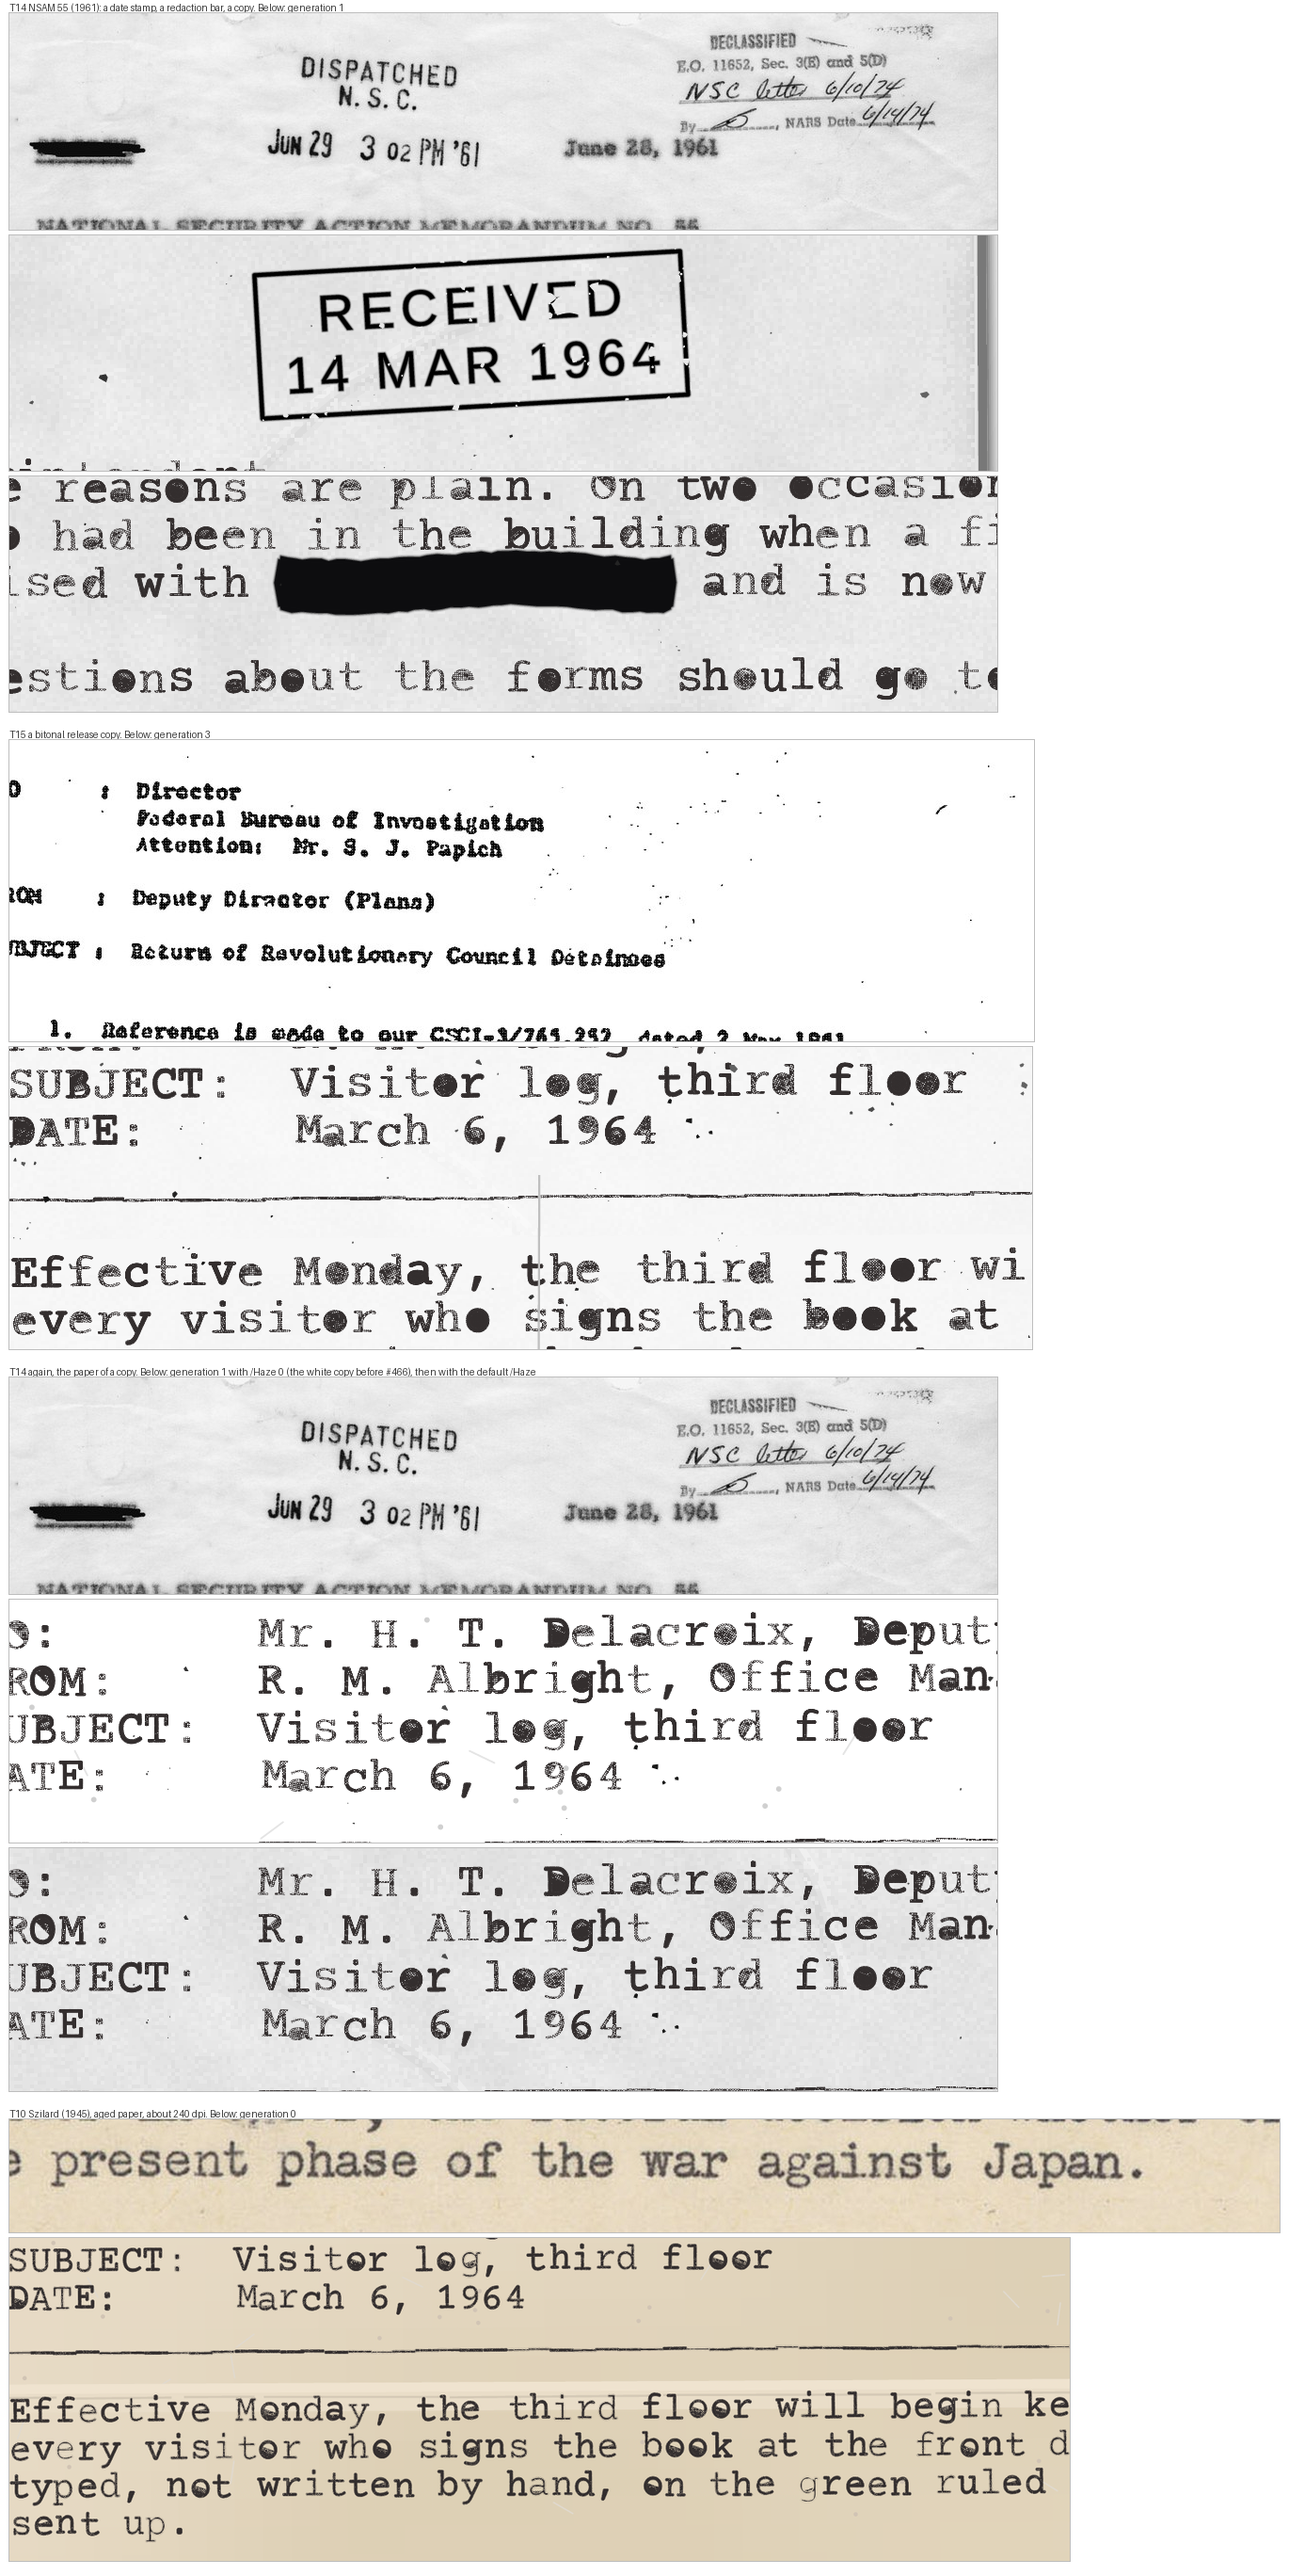
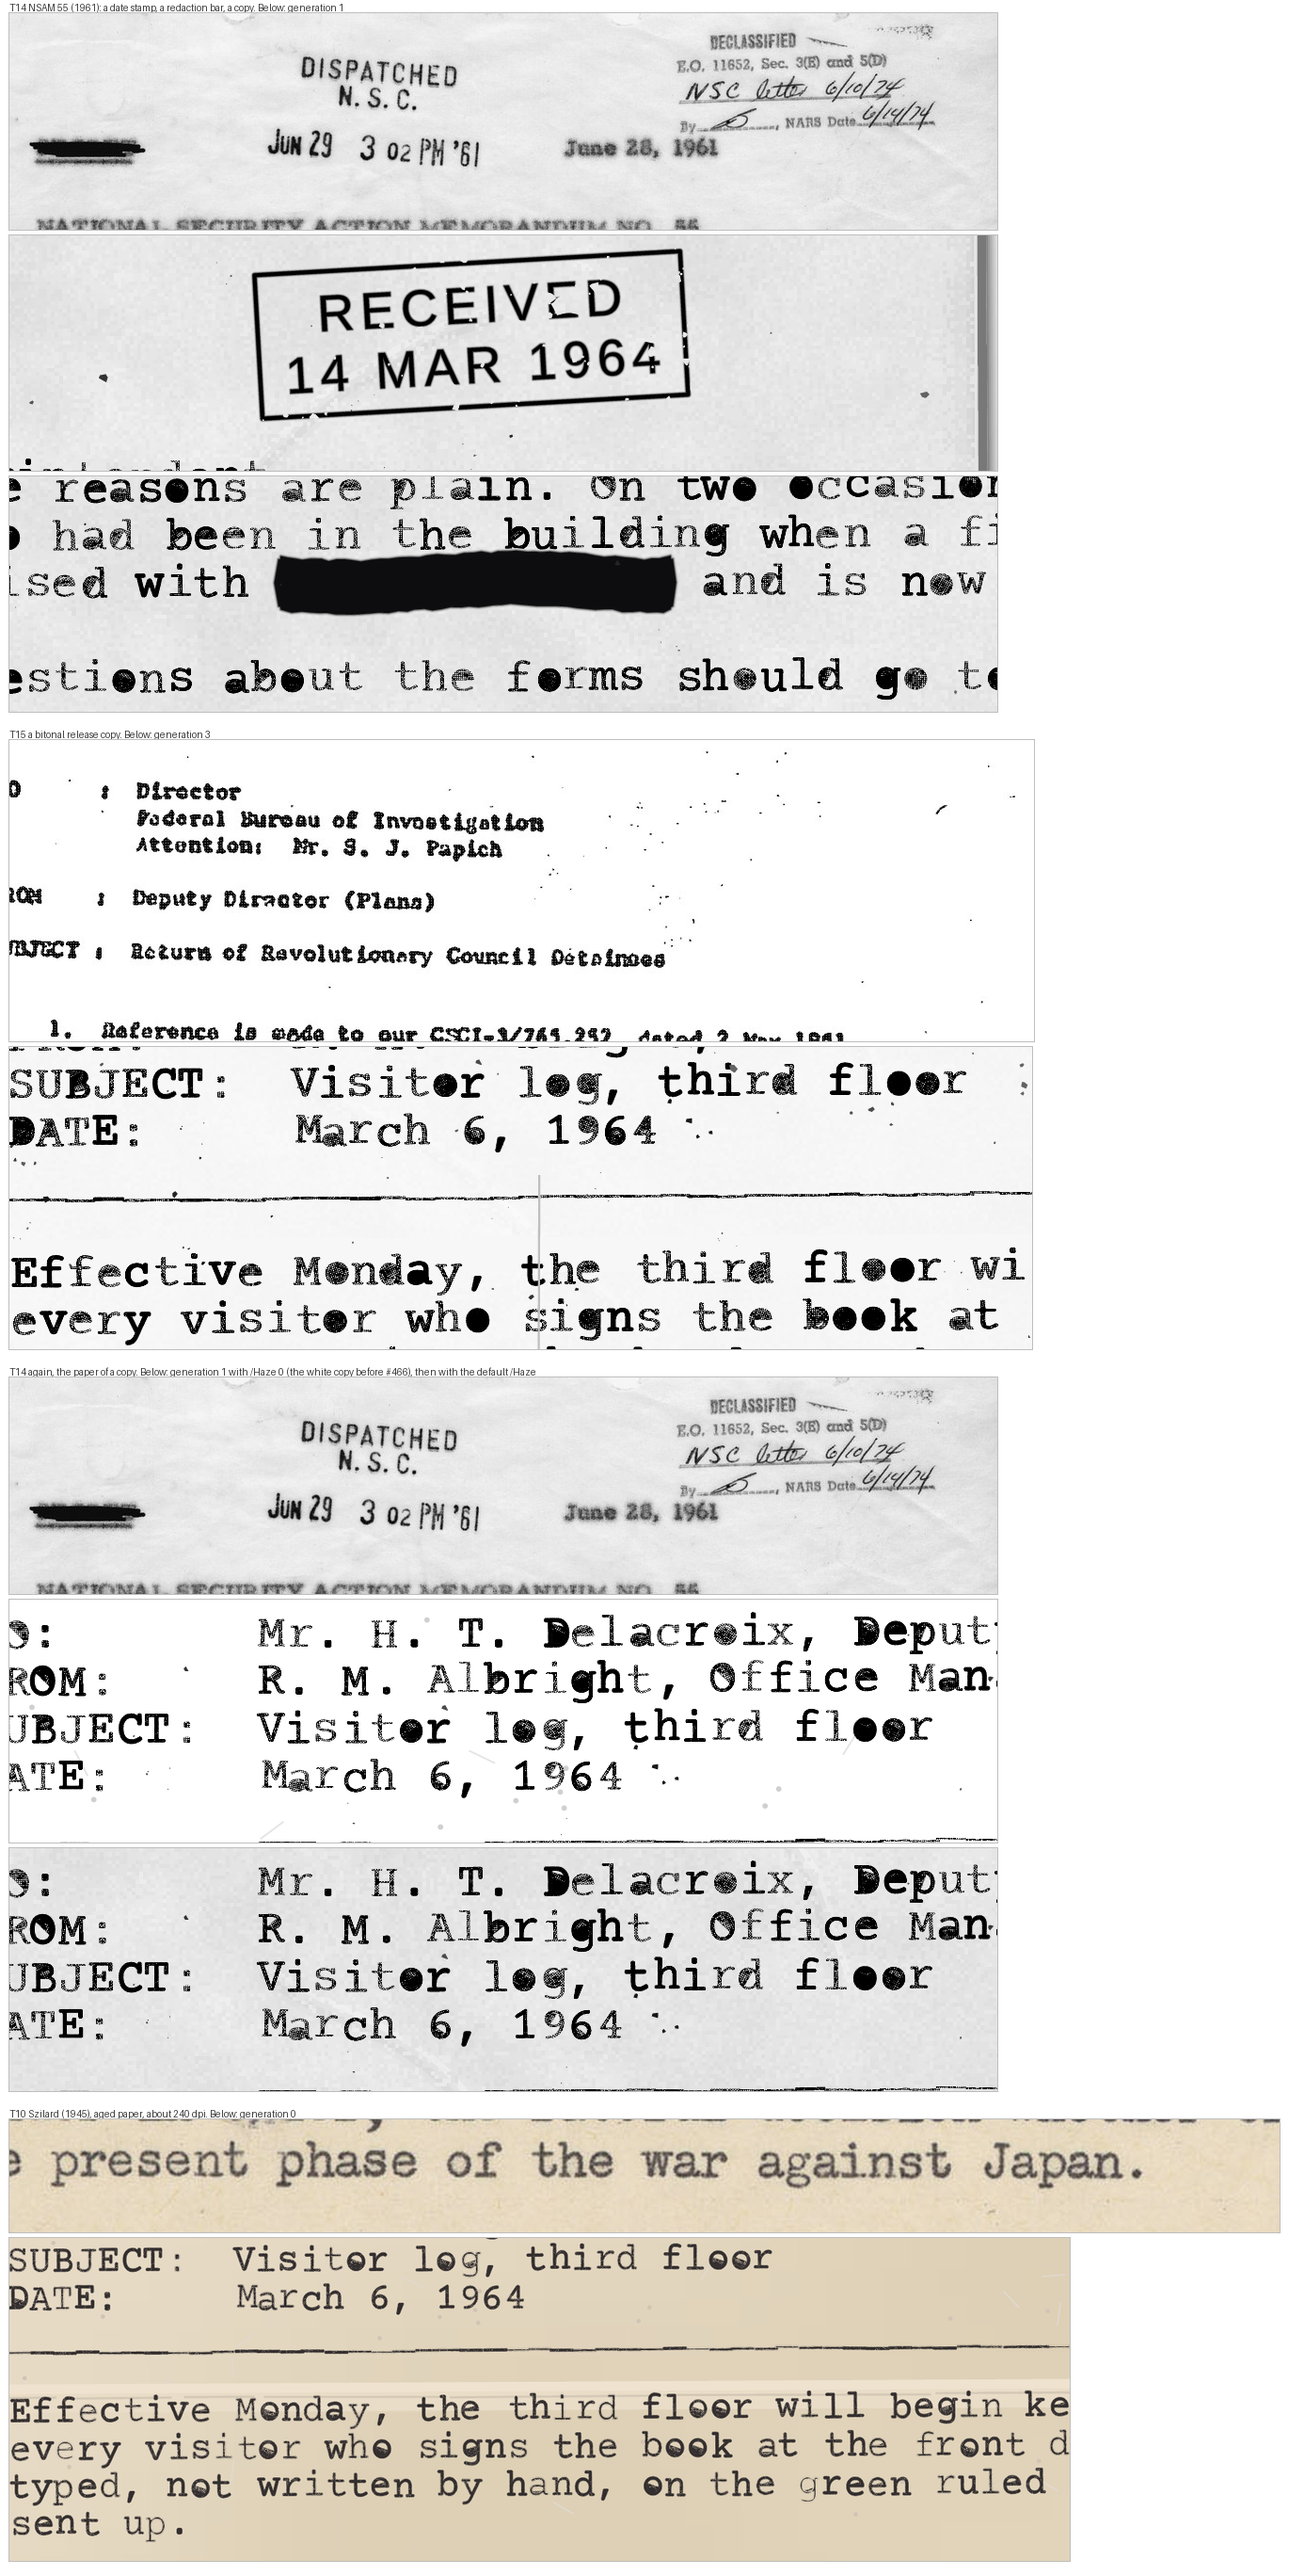
released: regenerate the boards a copy's blacker type touches; before/after crops; /InkMap in TYPEWRITER.md

diff --git a/tests/released.rs b/tests/released.rs
@@ -1103,7 +1103,11 @@ fn a_red_ribbon_goes_grey_on_a_copy_and_stays_red_on_an_original() {
     };
     assert!(red(0) > 200, "an original keeps its red ribbon");
     for generation in 1..=3 {
-        assert_eq!(red(generation), 0, "generation {generation}: the copier has no red");
+        assert_eq!(
+            red(generation),
+            0,
+            "generation {generation}: the copier has no red"
+        );
     }
 }
 
@@ -1123,7 +1127,10 @@ fn a_bleed_ink_goes_grey_on_a_copy_too() {
 #[test]
 fn a_paged_rel_page_sends_the_ribbon_through_the_copier_too() {
     let red = |generation: u32| {
-        let src = paged_src("/Ink [0.66 0.13 0.11]", &format!("/Generation {generation}"));
+        let src = paged_src(
+            "/Ink [0.66 0.13 0.11]",
+            &format!("/Generation {generation}"),
+        );
         let it = render(&src);
         it.gfx()
             .pages()
@@ -1164,5 +1171,8 @@ fn an_ink_map_of_a_nonprocedure_is_refused() {
     let err = it
         .run_str("<< /InkMap 5 >> tw-set")
         .expect_err("a number is not a procedure");
-    assert!(it.error_report(&err).contains("tw-inkmap-must-be-a-procedure"));
+    assert!(
+        it.error_report(&err)
+            .contains("tw-inkmap-must-be-a-procedure")
+    );
 }

diff --git a/docs/dev/design/TYPEWRITER.md b/docs/dev/design/TYPEWRITER.md
@@ -410,6 +410,10 @@ over the whole glyph. Ribbon ink only (no effect under `/InkModel false`).
   selector that is a little out), not a measurement; the depth, transition and
   rates are set by eye. The arrangement varies by ribbon (the selector picks the top or the
   bottom quarter inch of a half-inch ribbon), hence `/BleedSide`.
+- **`/InkMap` `[proc]`: the colour on its way to the page (#595).** A procedure `r g b -> r g b`
+  that `/Ink` and `/BleedInk` go through just before `setrgbcolor`; the default `{ }` changes
+  nothing. `lib/released.ps` `rel-page` sets it, with `/Copies`, to the copier's grey curve for a
+  copy, so a coloured ribbon prints grey like the marks beside it (near-black comes out black).
 
 ## 7. Randomness that stays out of the caller's stream
 

diff --git a/notes/595-copy-ribbon-colour.md b/notes/595-copy-ribbon-colour.md
@@ -35,3 +35,10 @@ Regenerated: `gallery/renders/released_memo.png`,
 `docs/dev/design/released_specimen.png` and `released_specimen_gs.png`.
 `tests/released.rs` `a_copy_whitens_the_paper_and_the_type_gets_fatter` now types its
 by-hand comparison in `/Ink [0 0 0]` for the same reason.
+
+Also regenerated, since they show the current look and reproduced byte for byte
+from `origin/main` before the change: `docs/dev/design/typewriter/release_vs_real.png`,
+`blind_grid.png` and `memo_vs_real.png` (`tools/release_compare.py`,
+`tools/blind_compare.py`). Before/after crops, with an amplified difference, are
+`notes/595-red-on-copy.png`, `595-memo-crop.png`, `595-specimen-crop.png` and
+`595-pages-crop.png`.
